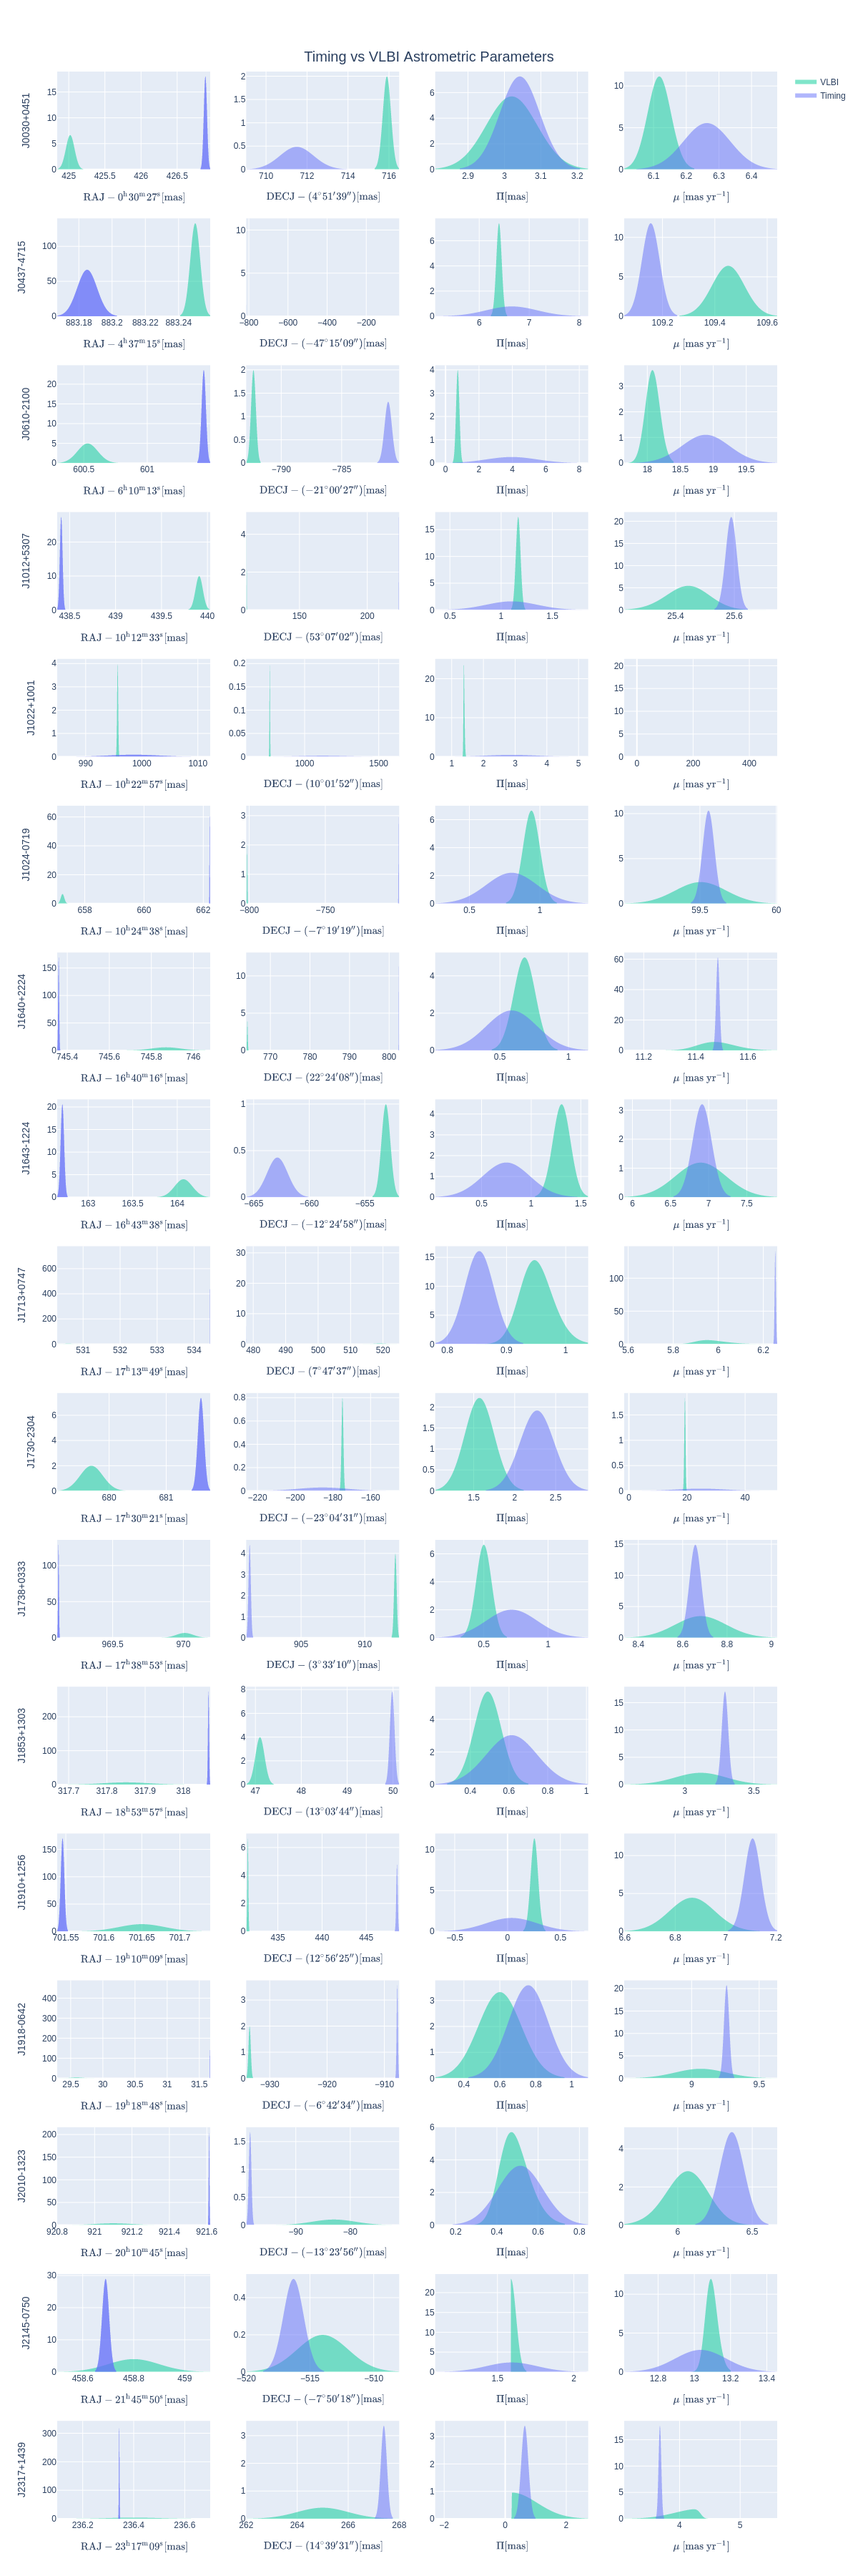
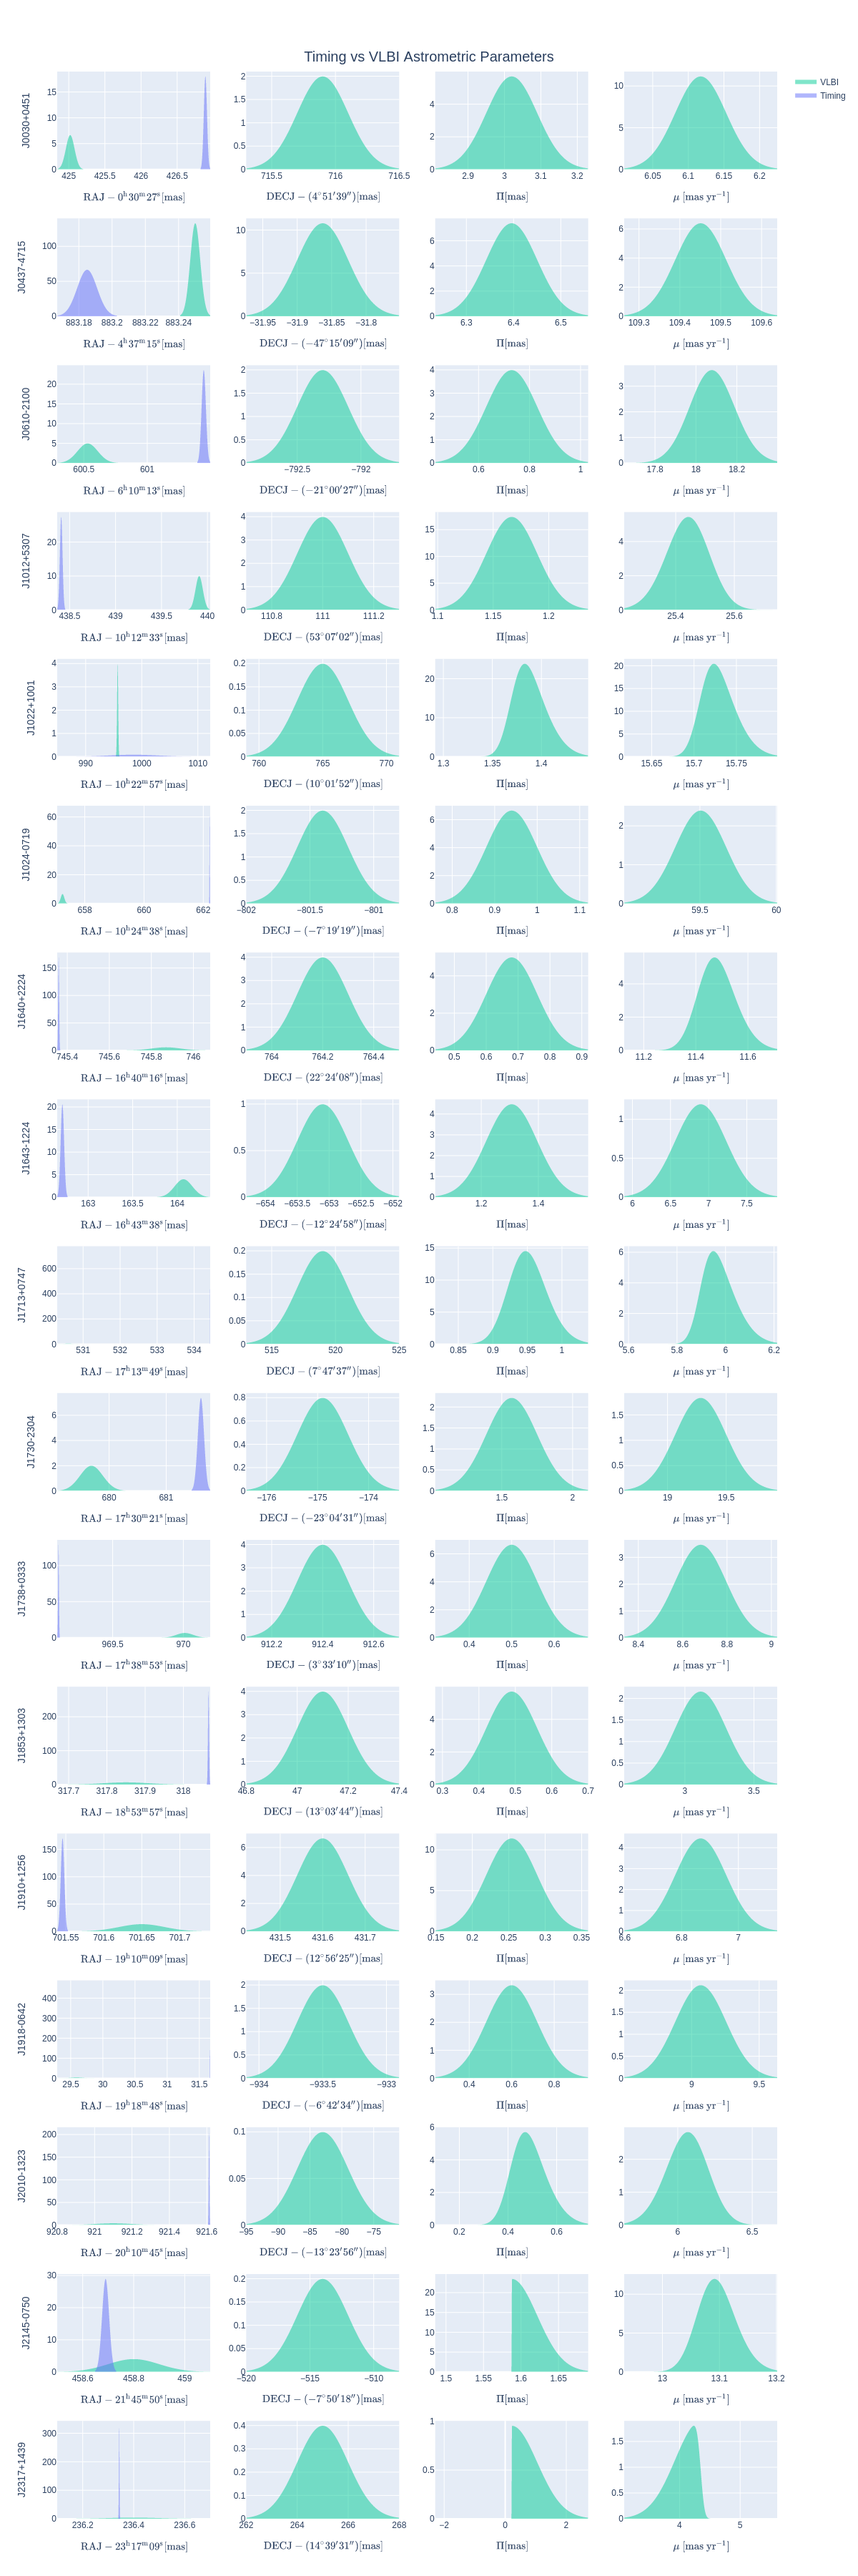
Frame tie

diff --git a/frame_tie.py b/frame_tie.py
@@ -1,0 +1,116 @@
+import numpy as np
+import pandas as pd
+from astropy.coordinates import Angle
+from numpy.linalg import inv, multi_dot
+
+from astropy.coordinates import SkyCoord  # High-level coordinates
+from astropy.coordinates import ICRS, Galactic, FK4, FK5  # Low-level frames
+from astropy.time import Time
+import astropy.units as u
+
+from uncertainties import ufloat
+from uncertainties.umath import *
+
+import sys
+
+def error_propagation(ra, dec):
+
+    # Convert to radians and calculate the cartesian componentes
+    x = cos(dec) * cos(ra)
+    y = cos(dec) * sin(ra)
+    z = sin(dec)
+
+    return np.array([x.std_dev, y.std_dev, z.std_dev])
+
+'''
+def error_propagation(ra, dec, ra_err, dec_err):
+    # Convert to angles
+    ra = Angle(ra).radian
+    dec = Angle(dec).radian
+    ra_err = Angle(ra_err).radian
+    dec_err = Angle(dec_err).radian
+
+    # Use error propagation
+    x_err = np.sqrt(
+        np.sin(dec) ** 2 * np.cos(ra) ** 2 * dec_err ** 2 + np.cos(dec) ** 2 * np.sin(ra) ** 2 * ra_err ** 2)
+    y_err = np.sqrt(
+        np.sin(dec) ** 2 * np.sin(ra) ** 2 * dec_err ** 2 + np.cos(dec) ** 2 * np.cos(ra) ** 2 * ra_err ** 2)
+    z_err = np.cos(dec) * dec_err
+
+    return np.array([x_err, y_err, z_err])
+'''
+
+# Load the VLBI_data
+data = pd.read_csv("./data/frame_tie.csv", index_col=0)
+PSR_names = ["J0437-4715", "J1713+0747"]
+N_pulsars: int = len(PSR_names)
+
+# Define the matrix
+D_T = np.empty((1, 3 * N_pulsars))
+E_T = np.empty((1, 3 * N_pulsars))
+M_T = np.empty((3, 3 * N_pulsars))
+
+# Iterate over the pulsars
+for i, PSR in enumerate(PSR_names):
+
+    # Create SkyCoord objects to handle frame, proper motion, etc.
+    timing_skycoords = SkyCoord(ra=data.loc[f"{PSR}_timing", "RAJ"], dec=data.loc[f"{PSR}_timing", "DECJ"],
+                             frame=ICRS, unit=(u.hourangle, u.deg),
+                             equinox=Time(val=data.loc[f"{PSR}_timing", "epoch"], format='mjd', scale='utc'))
+
+    timing_skycoords_err = SkyCoord(ra=data.loc[f"{PSR}_timing", "RAJ_err"], dec=data.loc[f"{PSR}_timing", "DECJ_err"],
+                                frame=ICRS, unit=(u.hourangle, u.deg),
+                                equinox=Time(val=data.loc[f"{PSR}_timing", "epoch"], format='mjd', scale='utc'))
+
+    # Create uncertainty objects to handle error propagation
+    timing_RA = ufloat(timing_skycoords.ra.rad, timing_skycoords_err.ra.rad)
+    timing_DEC = ufloat(timing_skycoords.dec.rad, timing_skycoords_err.dec.rad)
+
+    # Do the error propagation automatically
+    cartesian_timing_errs = error_propagation(timing_RA, timing_DEC)
+
+    VLBI_skycoords = SkyCoord(ra=data.loc[f"{PSR}_VLBI", "RAJ"], dec=data.loc[f"{PSR}_VLBI", "DECJ"],
+                           frame=ICRS, unit=(u.hourangle, u.deg),
+                           equinox=Time(val=data.loc[f"{PSR}_VLBI", "epoch"], format='mjd', scale='utc'))
+
+    VLBI_skycoords_err = SkyCoord(ra=data.loc[f"{PSR}_VLBI", "RAJ_err"], dec=data.loc[f"{PSR}_VLBI", "DECJ_err"],
+                           frame=ICRS, unit=(u.hourangle, u.deg),
+                           equinox=Time(val=data.loc[f"{PSR}_VLBI", "epoch"], format='mjd', scale='utc'))
+
+    # Create uncertainty objects to handle error propagation
+    VLBI_RA = ufloat(VLBI_skycoords.ra.rad, VLBI_skycoords_err.ra.rad)
+    VLBI_DEC = ufloat(VLBI_skycoords.dec.rad, VLBI_skycoords_err.dec.rad)
+
+    # Do the error propagation automatically
+    cartesian_VLBI_errs = error_propagation(VLBI_RA, VLBI_DEC)
+
+    # Calculate the matrices
+    D_T[0, 3 * i:3 * (i + 1)] = (timing_skycoords.cartesian - VLBI_skycoords.cartesian).get_xyz()
+
+    E_T[0, 3 * i:3 * (i + 1)] = cartesian_timing_errs - cartesian_VLBI_errs
+
+    x, y, z = VLBI_skycoords.cartesian.get_xyz()
+    M_T[:, 3 * i:3 * (i + 1)] = np.transpose(np.matrix([[0, -z, y], [z, 0, -x], [-y, x, 0]]))
+
+# Do the calculations
+E = np.transpose(E_T)
+D = np.transpose(D_T)
+M = np.transpose(M_T)
+
+sigma = np.dot(E, E_T)
+sigma = np.diag(np.diag(sigma))  # We have approximated sigma as diagonal
+sigma_inv = np.linalg.inv(sigma)
+
+# Do Equation 12 computation
+cov = multi_dot([M_T, sigma_inv, M])
+Ahat = multi_dot([inv(cov), M_T, sigma_inv, D])
+
+Ax, Ay, Az = Angle(Ahat[0, 0], u.radian), Angle(Ahat[1, 0], u.radian), Angle(Ahat[2, 0], u.radian)
+
+np.save("./results/frame_tie.npy", np.array([Ax.value, Ay.value, Az.value]))
+
+print(Ax.value, Ay.value, Az.value)
+
+print(Ax.arcsec*1000)
+print(Ay.arcsec*1000)
+print(Az.arcsec*1000)

diff --git a/plots_frametie.py b/plots_frametie.py
@@ -28,19 +28,46 @@ fig = make_subplots(rows=len(PSR_list), cols=4, vertical_spacing=0.02)
 VLBI_color = "rgba(0, 204, 150, 0.5)"  # px.colors.qualitative.Pastel1[2]
 timing_color = "rgba(99, 110, 250, 0.5)"  # px.colors.qualitative.Pastel1[1]
 
+# Frame tie
+ft = np.load("./results/frame_tie.npy", allow_pickle=True)
+ICRS_to_SSB = np.matrix([[1.0, ft[2], -1.0*ft[1]], [-1.0 * ft[2], 1.0, ft[0]], [ft[1], -1.0*ft[0], 1.0]])
+
+
 for i, PSR in enumerate(PSR_list):
 
+    # Frame tie
+    VLBI_skycoords = SkyCoord(ra=data.loc[PSR, "VLBI_RAJ"], dec=data.loc[PSR, "VLBI_DECJ"],
+                              frame=ICRS, unit=(u.hourangle, u.deg),
+                              equinox=data.loc[PSR, "equinox"], obstime=Time(val=data.loc[PSR, "POSEPOCH"], format='mjd', scale='utc'))
+
+    VLBI_skycoords_err = SkyCoord(ra=data.loc[PSR, "VLBI_RAJ_err"], dec=data.loc[PSR, "VLBI_DECJ_err"],
+                                  frame=ICRS, unit=(u.hourangle, u.deg),
+                                  equinox=data.loc[PSR, "equinox"], obstime=Time(val=data.loc[PSR, "POSEPOCH"], format='mjd', scale='utc'))
+
+    VLBI_SSB_xyz = np.dot(ICRS_to_SSB, np.transpose(VLBI_skycoords.cartesian.get_xyz()))
+    VLBI_SSB_xyz_err = np.dot(ICRS_to_SSB, np.transpose(VLBI_skycoords_err.cartesian.get_xyz()))
+
+    VLBI_SSB = SkyCoord(x=VLBI_SSB_xyz[0], y=VLBI_SSB_xyz[1], z=VLBI_SSB_xyz[2], representation_type='cartesian')
+    VLBI_SSB.representation_type = 'spherical'
+    VLBI_SSB_RA = VLBI_SSB.ra.to('hourangle')
+    VLBI_SSB_DEC = VLBI_SSB.dec.to('deg')
+
+    VLBI_SSB_err = SkyCoord(x=VLBI_SSB_xyz_err[0], y=VLBI_SSB_xyz_err[1], z=VLBI_SSB_xyz_err[2], representation_type='cartesian')
+    VLBI_SSB_err.representation_type = 'spherical'
+    VLBI_SSB_RA_err = VLBI_SSB_err.ra.to('hourangle')
+    VLBI_SSB_DEC_err = VLBI_SSB_err.dec.to('deg')
+
+    # Equatorial timing model
     ec_timing_model = models.get_model(glob.glob(f"./data/NG_15yr_dataset/par/{PSR}*.nb.par")[0])   # Ecliptical coordiantes
 #    eq_timing_model = ec_timing_model.as_ICRS()  # Equatorial coordinates
     eq_timing_model = ec_timing_model.as_ICRS(epoch=ec_timing_model.POSEPOCH.value)  # Equatorial coordinates
 
-    # ------------------------------RAJ------------------------------
-    VLBI_RAJ = Angle(data.loc[PSR, "VLBI_RAJ"])
-    ref_RAJ = Angle(f"{int(VLBI_RAJ.hms[0])}h{int(VLBI_RAJ.hms[1])}m{int(VLBI_RAJ.hms[2])}s")
 
-    # VLBI
-    VLBI_deltaRAJ_ms = (Angle(data.loc[PSR, "VLBI_RAJ"]) - ref_RAJ).hms[2] * 1000.0
-    VLBI_RAJ_err_ms = Angle(data.loc[PSR, "VLBI_RAJ_err"]).hms[2] * 1000.0
+    # ------------------------------RAJ------------------------------
+    ref_RAJ = Angle(f"{int(VLBI_SSB_RA.hms[0])}h{int(VLBI_SSB_RA.hms[1])}m{int(VLBI_SSB_RA.hms[2])}s")
+
+    VLBI_deltaRAJ_ms = (VLBI_SSB_RA - ref_RAJ).hms[2] * 1000.0
+    VLBI_RAJ_err_ms = VLBI_SSB_RA_err.hms[2] * 1000.0
     x, y = pdf_values(x0=VLBI_deltaRAJ_ms, uL=VLBI_RAJ_err_ms, uR=VLBI_RAJ_err_ms)
 
     if i==0:
@@ -69,12 +96,11 @@ for i, PSR in enumerate(PSR_list):
     fig.update_xaxes(title_text="$\mathrm{RAJ} - " + f"{ref_RAJ:latex}"[1:-1] + " [\mathrm{mas}]$", row=i+1, col=1)
 
     # ------------------------------DECJ------------------------------
-    VLBI_DECJ = Angle(data.loc[PSR, "VLBI_DECJ"])
-    ref_DECJ = Angle(f"{int(VLBI_DECJ.dms[0])}d{int(abs(VLBI_DECJ.dms[1]))}m{int(abs(VLBI_DECJ.dms[2]))}s")
+    ref_DECJ = Angle(f"{int(VLBI_SSB_DEC.dms[0])}d{int(abs(VLBI_SSB_DEC.dms[1]))}m{int(abs(VLBI_SSB_DEC.dms[2]))}s")
 
     # VLBI
-    VLBI_deltaDECJ_ms = (Angle(data.loc[PSR, "VLBI_DECJ"]) - ref_DECJ).dms[2] * 1000.0
-    VLBI_DECJ_err_ms = Angle(data.loc[PSR, "VLBI_DECJ_err"]).dms[2] * 1000.0
+    VLBI_deltaDECJ_ms = (VLBI_SSB_DEC- ref_DECJ).dms[2] * 1000.0
+    VLBI_DECJ_err_ms = VLBI_SSB_DEC_err.dms[2] * 1000.0
     x, y = pdf_values(x0=VLBI_deltaDECJ_ms, uL=VLBI_DECJ_err_ms, uR=VLBI_DECJ_err_ms)
     fig.add_trace(go.Scatter(x=x, y=y, fill='tozeroy', fillcolor=VLBI_color, mode='none', showlegend=False), row=i+1, col=2)
 

diff --git a/Dusty_frameTie.py b/Dusty_frameTie.py
@@ -1,0 +1,68 @@
+from numpy import *
+from numpy.linalg import *
+import sys
+
+#Angles in radians, info from Table 2
+alpha0437VLBI = (4*3600 + 37*60 + 15 + 0.883250)*(2*pi/86400);
+delta0437VLBI = -(47*3600 + 15*60 + 9 + 0.031863)*(2*pi/1296000);
+alpha0437Timing = (4*3600 + 37*60 + 15 + 0.883186)*(2*pi/86400);
+delta0437Timing = -(47*3600 + 15*60 + 9 + 0.034033)*(2*pi/1296000);
+##propagate the 1713 values forward accounting for proper motion between epochs (use Hotan et al. values)
+properMotionCorrect = 0
+alpha1713VLBI = (17*3600 + 13*60 + 49 + 0.5306 + 0.001653*properMotionCorrect)*(2*pi/86400);
+delta1713VLBI = (7*3600 + 47*60 + 37 + 0.519 - 0.0185*properMotionCorrect)*(2*pi/1296000);
+alpha1713Timing = (17*3600 + 13*60 + 49 + 0.53077 + 0.001653*properMotionCorrect)*(2*pi/86400);
+delta1713Timing = (7*3600 + 47*60 + 37 + 0.5228 - 0.0185*properMotionCorrect)*(2*pi/1296000);
+
+print(alpha0437Timing)
+print(delta0437Timing)
+sys.exit()
+'''
+#propagate J1713 angles forward to J0437 epoch using proper motion from Hotan et al. (2006)
+alpha1713VLBI += 0.00497*((54100-52275)/365)*(2*pi/1296000)
+alpha1713Timing += 0.00497*((54100-52275)/365)*(2*pi/1296000)
+delta1713VLBI += -0.0037*((54100-52275)/365)*(2*pi/1296000)
+delta1713Timing += -0.0037*((54100-52275)/365)*(2*pi/1296000)
+'''
+
+#Form position unit vectors
+nhat0437VLBI = array([cos(delta0437VLBI)*cos(alpha0437VLBI),cos(delta0437VLBI)*sin(alpha0437VLBI),sin(delta0437VLBI)]);
+nhat0437Timing = array([cos(delta0437Timing)*cos(alpha0437Timing),cos(delta0437Timing)*sin(alpha0437Timing),sin(delta0437Timing)]);
+nhat1713VLBI = array([cos(delta1713VLBI)*cos(alpha1713VLBI),cos(delta1713VLBI)*sin(alpha1713VLBI),sin(delta1713VLBI)]);
+nhat1713Timing = array([cos(delta1713Timing)*cos(alpha1713Timing),cos(delta1713Timing)*sin(alpha1713Timing),sin(delta1713Timing)]);
+
+#Form difference vectors
+d0437 = nhat0437Timing - nhat0437VLBI
+d1713 = nhat1713Timing - nhat1713VLBI
+
+#Form M matrix
+M = [[0,-nhat0437VLBI[2],nhat0437VLBI[1]],
+     [nhat0437VLBI[2],0,-nhat0437VLBI[0]],
+     [-nhat0437VLBI[1],nhat0437VLBI[0],0],
+     [0,-nhat1713VLBI[2],nhat1713VLBI[1]],
+     [nhat1713VLBI[2],0,-nhat1713VLBI[0]],
+     [-nhat1713VLBI[1],nhat1713VLBI[0],0]]
+
+#Form Sigma matrix (hack version),info from Table 2, see just above start of section 4
+#quantities in radians
+sigma0437VLBI = sqrt(cos(delta0437VLBI)**2*(0.000003*(2*pi/86400))**2+(0.000037*(2*pi/1296000))**2)
+sigma0437Timing = sqrt(cos(delta0437Timing)**2*(0.000006*(2*pi/86400))**2+(0.000070*(2*pi/1296000))**2)
+sigma1713VLBI = sqrt(cos(delta1713VLBI)**2*(0.0001*(2*pi/86400))**2+(0.002*(2*pi/1296000))**2)
+sigma1713Timing = sqrt(cos(delta1713Timing)**2*(0.00001*(2*pi/86400))**2+(0.0002*(2*pi/1296000))**2)
+
+Sigma = diag([sigma0437VLBI**2+sigma0437Timing**2,
+              sigma0437VLBI**2+sigma0437Timing**2,
+              sigma0437VLBI**2+sigma0437Timing**2,
+              sigma1713VLBI**2+sigma1713Timing**2,
+              sigma1713VLBI**2+sigma1713Timing**2,
+              sigma1713VLBI**2+sigma1713Timing**2])
+
+#Form D
+D = [d0437[0],d0437[1],d0437[2],d1713[0],d1713[1],d1713[2]];
+
+#Do Equation 12 computation
+cov = dot(transpose(M),dot(inv(Sigma),M))
+Ahat = dot(dot(dot(inv(cov),transpose(M)),inv(Sigma)),D)
+
+#Convert Ahat from radians to mas
+Ahat *= 1296000000/(2*pi)

diff --git a/calculate_residuals_diff.py b/calculate_residuals_diff.py
@@ -6,11 +6,25 @@ from pint.toa import get_TOAs
 from pint.models import get_model
 from pint.residuals import Residuals
 import pint.fitter
+import seaborn as sns
 
 import glob
 
+sns.set_style("ticks")
+
 if __name__ == "__main__":
     PSR_name: str = "J0030+0451"
+
+    fig, ax = plt.subplots(nrows=3, ncols=1, gridspec_kw={'hspace': 0})
+
+    # Hide x-axis labels for all but the last subplot
+    for i in range(2):
+        ax[i].set_xticks([])
+
+    fig.suptitle(PSR_name)
+    titles = ['Original Residuals', 'New Residuals', 'Difference']  # Replace with your desired titles
+    for i in range(3):
+        ax[i].text(0.7, 0.95, titles[i], transform=ax[i].transAxes, ha='left', va='top')
 
     # Names of the original .tim and .par files
     timfile: str = glob.glob(f"./data/NG_15yr_dataset/tim/{PSR_name}*tim")[0]
@@ -32,14 +46,14 @@ if __name__ == "__main__":
     xt = toas.get_mjds()
     errors = toas.get_errors().to(u.us).value
 
-    plt.figure()
-    plt.errorbar(xt, original_residuals, yerr=errors, fmt='o')
-    plt.title(str(PSR_name) + " Original Timing Residuals | $\sigma_\mathrm{TOA}$ = " + str(
-        round(np.std(original_residuals), 2)))
-    plt.xlabel("MJD")
-    plt.ylabel("Residual ($\mu s$)")
-    plt.tight_layout()
-    plt.show()
+    ax[0].scatter(xt, original_residuals)
+#    plt.errorbar(xt, original_residuals, yerr=errors, fmt='o')
+#    plt.title(str(PSR_name) + " Original Timing Residuals | $\sigma_\mathrm{TOA}$ = " + str(
+#        round(np.std(original_residuals), 2)))
+#    plt.xlabel("MJD")
+    ax[0].set_ylabel("Residual ($\mu s$)")
+#    plt.tight_layout()
+#    plt.show()
 
     # Load the new timing model and convert to equatorial coordinates
     new_ec_timing_model = get_model(new_parfile)  # Ecliptical coordiantes
@@ -51,22 +65,24 @@ if __name__ == "__main__":
 #    xt = toas.get_mjds()
 #    errors = toas.get_errors().to(u.us).value
 
-    plt.figure()
-    plt.errorbar(xt, new_residuals, yerr=errors, fmt='o')
-    plt.title(str(PSR_name) + " New Timing Residuals | $\sigma_\mathrm{TOA}$ = " + str(
-        round(np.std(new_residuals), 2)))
-    plt.xlabel("MJD")
-    plt.ylabel("Residual ($\mu s$)")
-    plt.tight_layout()
-    plt.show()
+#    plt.figure()
+    ax[1].scatter(xt, new_residuals)
+#    plt.errorbar(xt, new_residuals, yerr=errors, fmt='o')
+#    plt.title(str(PSR_name) + " New Timing Residuals | $\sigma_\mathrm{TOA}$ = " + str(
+#        round(np.std(new_residuals), 2)))
+#    plt.xlabel("MJD")
+    ax[1].set_ylabel("Residual ($\mu s$)")
+#    plt.tight_layout()
+#    plt.show()
 
     # Plot the differences between both sets of residuals
-    plt.figure()
-    plt.errorbar(xt, original_residuals-new_residuals, yerr=errors, fmt='o')
-    plt.title(str(PSR_name) + " Differences in Timing Residuals | $\sigma_\mathrm{TOA}$ = " + str(
-        round(np.std(new_residuals), 2)))
-    plt.xlabel("MJD")
-    plt.ylabel("Residual ($\mu s$)")
+#    plt.figure()
+    ax[2].scatter(xt, original_residuals-new_residuals)
+ #   plt.errorbar(xt, original_residuals-new_residuals, yerr=errors, fmt='o')
+#    plt.ylim([-25.0, 25.0])
+#    plt.title(str(PSR_name) + " Differences in Timing Residuals")
+    ax[2].set_xlabel("MJD")
+    ax[2].set_ylabel("Residual ($\mu s$)")
     plt.tight_layout()
     plt.show()
 

diff --git a/find_solutions_overlaps_frametie.py b/find_solutions_overlaps_frametie.py
@@ -40,6 +40,11 @@ def find_overlap(PSR_name, data, eq_timing_model, overlap_file, grid_num: int, f
     # Timing model in equatorial coordinates
     #    eq_timing_model = ec_timing_model.as_ICRS(epoch=Time(data.loc[PSR_name, "POSEPOCH"], format="mjd"))
 
+    # ------------------------------Position------------------------------
+
+
+
+
     # ------------------------------Proper Motion------------------------------
     # Timing
     timing_PMRA = ufloat(eq_timing_model.PMRA.value, eq_timing_model.PMRA.uncertainty.value)
@@ -199,7 +204,7 @@ def find_overlap(PSR_name, data, eq_timing_model, overlap_file, grid_num: int, f
     results[:, :] = np.nan
 
     # Iterate over all points
-    for i, (mu_alpha_star, mu_delta, px) in enumerate(product(PMRA_values, PMDEC_values, PX_values)):
+    for i, (mu_alpha_star, mu_delta, px) in enumerate(product(RA_values, DEC_values, PMRA_values, PMDEC_values, PX_values)):
 
         if VLBI_PM.nominal_value - factor * VLBI_PM_uL < math.sqrt(
                 mu_alpha_star ** 2 + mu_delta ** 2) < VLBI_PM.nominal_value + factor * VLBI_PM_uR:
@@ -210,7 +215,7 @@ def find_overlap(PSR_name, data, eq_timing_model, overlap_file, grid_num: int, f
                 results[i, :] = [mu_alpha_star / math.cos(timing_DECJ.nominal_value), mu_delta, px]
 
     overlap_df = pd.DataFrame(data=results, columns=["PMRA", "PMDEC", "PX"]).dropna(how="any", ignore_index=True)
-#    overlap_df.to_csv(overlap_file, sep=" ", header=True, index_label="ArrayTaskID")
+    overlap_df.to_csv(overlap_file, sep=" ", header=True, index_label="ArrayTaskID")
 
     return
 
